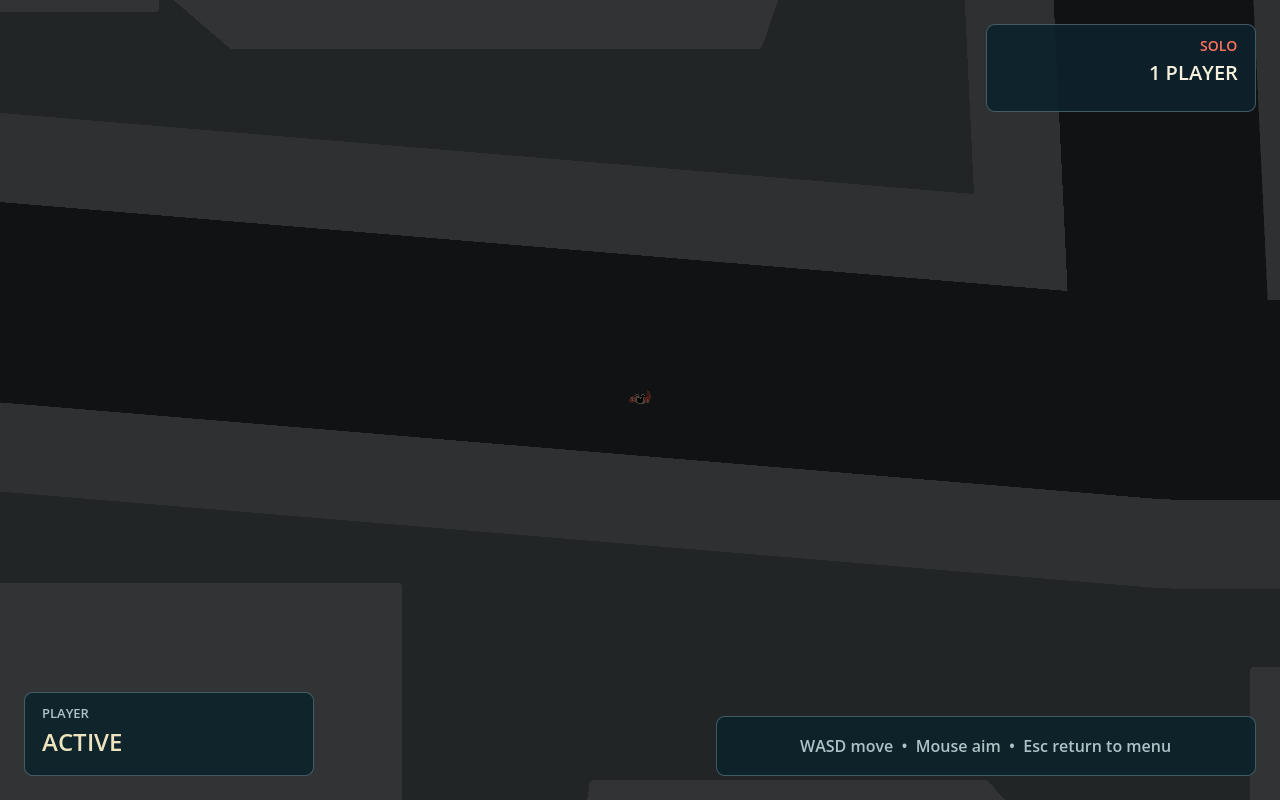
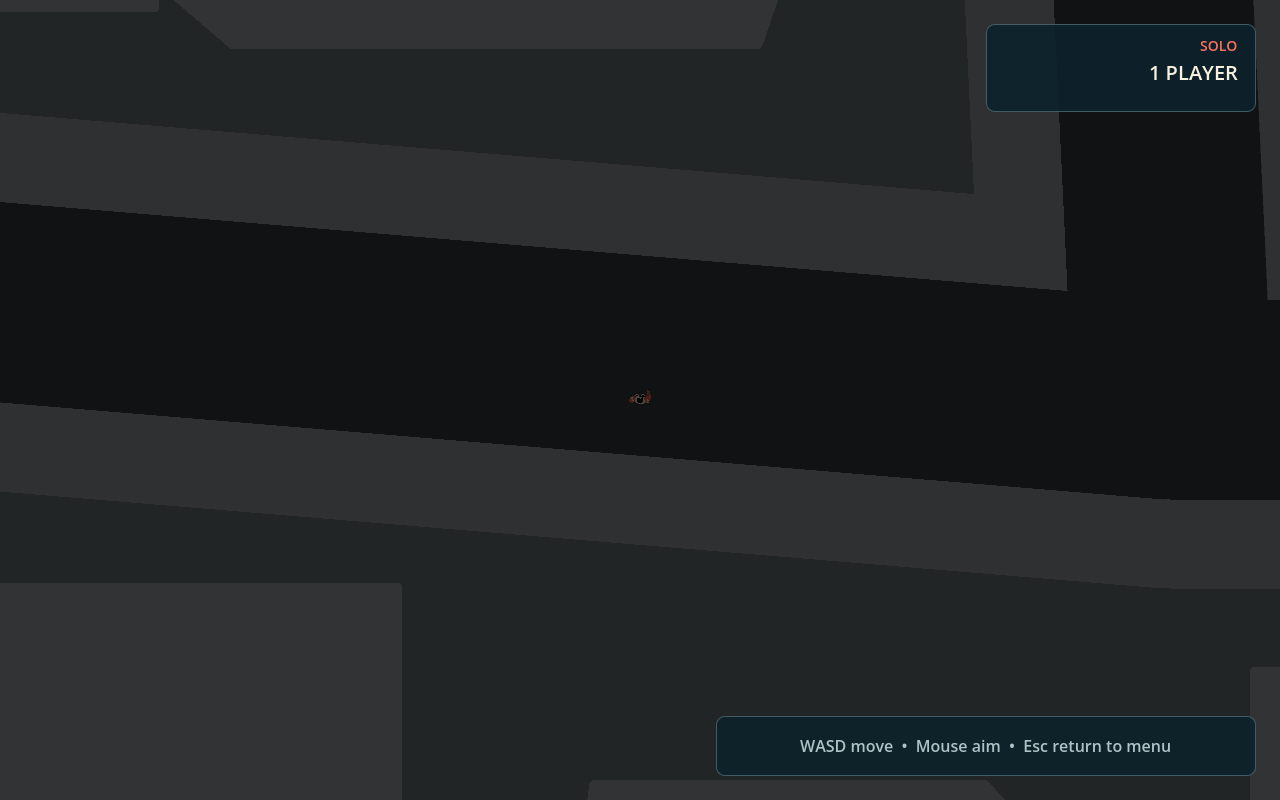
fix(ui): require authoritative HUD state

Changed region(s): [[0.0, 0.8438, 0.25, 0.9688]]

diff --git a/docs/api-contracts.md b/docs/api-contracts.md
@@ -104,7 +104,11 @@ display data only. Pending connections reserve capacity from handshake onward an
 are bounded with the same four-player total, including the host. Provider setup limits
 pending native peers accordingly; excess connections fail without entering Match.
 SessionService alone writes connection/roster state;
-Match owns player entity/control bindings. A canceled reservation is released.
+Match owns player entity/control bindings. A canceled reservation is released. The HUD may count
+the host/standalone `SessionView.roster`, but a joined client's current view contains only its local
+row. Joined-client counts therefore remain hidden until A2.2/A2.4 supplies its authoritative
+replicated admitted roster through `LocalRig.bind_authoritative_roster(source)`; presentation never
+pads or infers membership.
 
 ```text
 IDLE -> STARTING (host/standalone) or CONNECTING (join)
@@ -677,7 +681,9 @@ the live window may be dropped cosmetically; durable state still applies. Predic
 replay cannot emit live events. HUD health/ammo/seat/cooldown comes from owner state,
 and camera follows the committed controlled entity. LocalRig rebind is idempotent,
 not another rig instance. Effect/audio limits fall back by merging/dropping lower
-priority cosmetics; gameplay still runs off-camera and when effects are saturated.
+priority cosmetics; gameplay still runs off-camera and when effects are saturated. Actor binding
+establishes only controlled-entity presence; HUD alive/dead and respawn presentation stays hidden
+until the sole `PlayerLifecycle` source is bound.
 
 `AudioSettings = {schema_version: 1, master/music/sfx: {linear_gain: 0..1, muted: bool}}`.
 Defaults are gain 1 and unmuted. Load validates each field; missing/corrupt fields

diff --git a/docs/spikes/m1-c4-1-evidence/README.md b/docs/spikes/m1-c4-1-evidence/README.md
@@ -9,13 +9,14 @@ through the canonical production checks.
 Both images are from the saved Boot → standalone Match composition. The capture
 runner injected Boot's `SessionService` through `LocalRig.bind_session`, retained the
 normal controlled-player binding, rendered an exact-size `SubViewport`, and set
-`Engine.max_fps = 60` before scene creation. The runner and logs remain outside the
-repository under `C:/tmp/ft/lanes/m1-c4-1/`.
+`Engine.max_fps = 60` before scene creation. No `PlayerLifecycle` exists yet, so the
+captures intentionally hide the life row rather than presenting an actor-derived default.
+The runner and logs remain outside the repository under `C:/tmp/ft/lanes/m1-c4-1/`.
 
 | Capture | Bytes | SHA-256 |
 | --- | ---: | --- |
[4 lines of base64/hex data omitted]
 
 The first 1920×1080 window-resize capture attempt exposed an engine image-readback
 crash after dynamic root-window resizing. No result was accepted from that run. The
